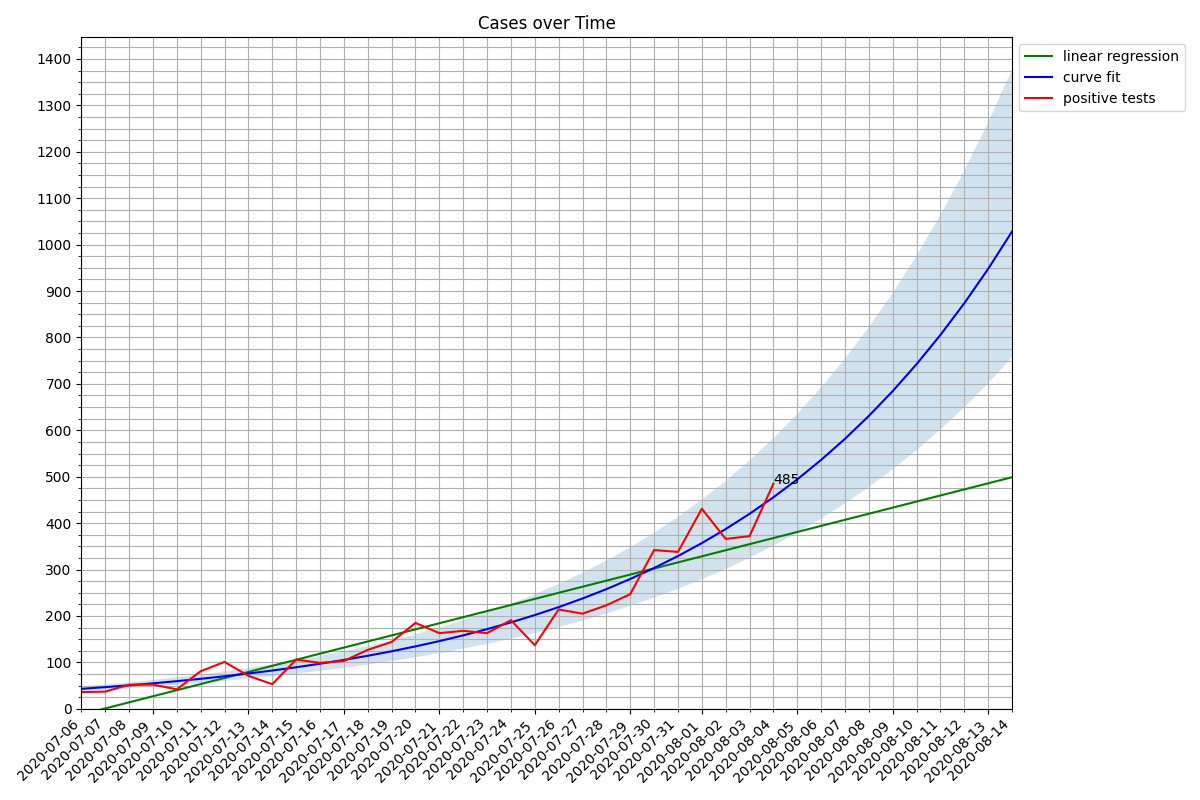
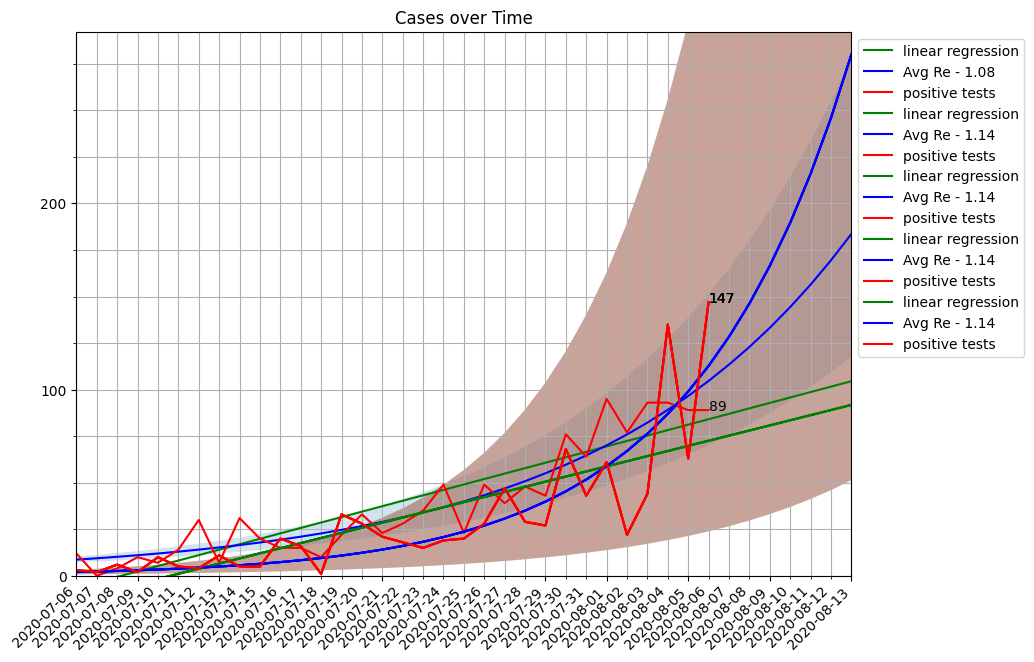
feat: add web-interface for database

diff --git a/frontend/templates/show_plots.html b/frontend/templates/show_plots.html
@@ -2,10 +2,54 @@
 
 {% block content %}
 
-<div class="base-div container-lg">
-
-    <img src="{{ url_for('static', filename='test.png') }}"  alt="plot"/>
-    
+<div class="container-lg">
+    <div class="row justify-content-center">
+        <form action="{{ url_for('index') }}" method="post" name="plot">
+            <div class="form-group row align-items-center">
+                <div class="col-auto">
+                    <h1>Municipality</h1>
+                    {{ form.hidden_tag() }}
+                    {{ form.municipality(size=30, class_='form-control') }}
+                </div>
+                <div class="col-auto">
+                    <h1>Province</h1>
+                    {{ form.province(size=30, class_='form-control') }}
+                </div>
+            </div>
+            <div class="form-group row align-items-center">
+                <div class="col-auto">
+                    <h1>Start Date</h1>
+                    {{ form.start_date(class_='form-control') }}
+                </div>
+                <div class="col-auto">
+                    <h1>End Date</h1>
+                    {{ form.end_date(class_='form-control') }}
+                </div>
+            </div>
+            <div class="form-group row align-items-center">
+                <div class="col-auto">
+                    Days to predict
+                    {{ form.no_days_to_predict(class_='form-control') }}
+                </div>
+                <div class="col-auto">
+                    Plot with curve
+                    {{ form.exp_curve(class_='form-control') }}
+                </div>
+                <div class="col-auto">
+                    Plot with lin. reg.
+                    {{ form.linear_regres(class_='form-control') }}
+                </div>
+            </div>
+            <div class="form-group row align-items-center">
+                <div class="col-auto mx-auto">
+                    {{ form.submit(class_='form-control btn btn-light') }}
+                </div>
+            </div>
+        </form>
+    </div>
+    <div class="row justify-content-center">
+        <img src="{{ url_for('static', filename=image_name) }}" alt="plot" class="rounded img-fluid"/>
+    </div>
 </div>
 
 {% endblock %}

diff --git a/frontend/templates/base.html b/frontend/templates/base.html
@@ -1,14 +1,13 @@
 <!doctype html>
 <html lang="en">
 <head>
-    <title>Poepquiz</title>
+    <title>Covid Analysis</title>
 
     <meta charset="utf-8">
     <meta name="viewport" content="width=device-width, initial-scale=1, shrink-to-fit=no">
 
     <link rel="stylesheet" href="https://stackpath.bootstrapcdn.com/bootstrap/4.3.1/css/bootstrap.min.css"
           integrity="sha384-ggOyR0iXCbMQv3Xipma34MD+dH/1fQ784/j6cY/iJTQUOhcWr7x9JvoRxT2MZw1T" crossorigin="anonymous">
-    <link rel="stylesheet" href="{{url_for('static', filename='styling.css')}}">
     <link href='https://fonts.googleapis.com/css?family=Roboto' rel='stylesheet'>
 
     <script src="https://ajax.googleapis.com/ajax/libs/jquery/3.5.1/jquery.min.js"></script>
@@ -20,6 +19,6 @@
             integrity="sha384-JjSmVgyd0p3pXB1rRibZUAYoIIy6OrQ6VrjIEaFf/nJGzIxFDsf4x0xIM+B07jRM"
             crossorigin="anonymous"></script>
 </head>
-<body class="center">
+<body class="p-3 mb-2 bg-dark text-white">
 {% block content %} {% endblock %}
 </body>

diff --git a/graph_plotter.py b/graph_plotter.py
@@ -1,39 +1,52 @@
+from datetime import date
 from scipy import stats, optimize
 import matplotlib.ticker as ticker
 import matplotlib.dates as mdates
 import matplotlib.pyplot as plt
 import numpy as np
+import matplotlib
+import random
 
 
-def plot_statistics(data_set, start_date, no_days_to_predict, linear_regres=True, exp_curve=True):
+# Prevent GUI from being triggered which causes crashes
+matplotlib.use('agg')
+
+
+def plot_statistics(data_set, start_date=date.min, end_date=date.max, no_days_to_predict=0, linear_regres=True, exp_curve=True):
     """
     Parameters
     ----------
     data_set: list of DutchStatistics
         pass data set containing statistics to plot
-    start_date: datetime.date
+    start_date: datetime.date, optional
         date to start plotting the data e.g datetime.date(2020, 7, 30)
     no_days_to_predict: int, optional
         number of dates to predict in the future
+    end_date: datetime.date, optional
+        defaults to infinity; date to end the plot, useful for date ranges
     linear_regres: boolean, optional
         defaults to true; add a linear regression line up to days to predict
     exp_curve: boolean, optional
         defaults to true; plots an exponential curve on the dataset
 
     :return:
-    Plots a graph with measured cases and optionaly adds statistical prediction
+    Plots a graph with measured cases and optionally adds statistical prediction
     """
 
     if no_days_to_predict > 0 and not exp_curve and not linear_regres:
         msg = 'Choose either exponential and/or linear prediction when using no_days_to_predict'
         raise RuntimeError(msg)
 
+    # None value should default to max
+    if not end_date:
+        end_date = date.max
+
     # Convert the data set for use in the plotter
     statistics = data_set
     dates = []
     cases = []
     for stat in statistics:
-        if stat[0] >= start_date:
+        if end_date >= stat[0] >= start_date:
             dates.append(stat[0])
             cases.append(stat[1])
 
@@ -75,8 +88,11 @@ def plot_statistics(data_set, start_date, no_days_to_predict, linear_regres=True
         prediction_optimum = exponent(np.array(predict_range), popt[0], popt[1])
         prediction_high = exponent(np.array(predict_range), popt[0] + perr[0], popt[1] + perr[1])
 
+        # Calculate reproduction number and add to plot
+        reproduction_no = round(exponent(1, popt[0], popt[1]) / exponent(0, popt[0], popt[1]), 2)
+
         # Plot the optimum as line and the rest as area
-        plt.plot(predicted_dates, prediction_optimum, color='blue', label='curve fit')
+        plt.plot(predicted_dates, prediction_optimum, color='blue', label='Avg Re - ' + str(reproduction_no))
         plt.gca().fill_between(predicted_dates, prediction_low, prediction_high, alpha=0.2)
 
     # Plot final results
@@ -106,12 +122,14 @@ def plot_statistics(data_set, start_date, no_days_to_predict, linear_regres=True
     # Other tweaks for the graph
     plt.xlim(left=start_date, right=predicted_dates[0])
     plt.ylim(bottom=0)
-    fig.set_size_inches(12, 8)
+    fig.set_size_inches(10, 8)
     plt.legend(bbox_to_anchor=(1, 1), loc='upper left')
-    plt.show()
-    # Finally show the plot
-    fig.savefig('frontend/static/test.png')
-    return fig
+
+    # Store the image
+    random_image_name = str(random.randint(1000000, 9999999)) + '.png'
+    fig.savefig('frontend/static/' + random_image_name, bbox_inches='tight')
+    plt.close()
+    return random_image_name
 
 
 def cases_per_municipality(data_set, start_date):

diff --git a/frontend/routes.py b/frontend/routes.py
@@ -1,8 +1,24 @@
-from frontend import app
+from frontend import app, forms
 from flask import render_template, redirect, url_for, session, request
+import graph_plotter
+import dutch_statistics
 
 
 @app.route('/', methods=['GET', 'POST'])
 @app.route('/plot', methods=['GET', 'POST'])
 def index():
-    return render_template('show_plots.html')
+    form = forms.SelectionForm()
+    if not session.get('image_name'):
+        session['image_name'] = 'test.png'
+    if form.validate_on_submit():
+        data_set = dutch_statistics.sum_dutch_total_infections(municipality=form.municipality.data,
+                                                               province=form.province.data)
+
+        session['image_name'] = graph_plotter.plot_statistics(
+                data_set=data_set,
+                start_date=form.start_date.data,
+                end_date=form.end_date.data,
+                no_days_to_predict=form.no_days_to_predict.data,
+                linear_regres=form.linear_regres.data,
+                exp_curve=form.linear_regres.data)
+    return render_template('show_plots.html', form=form, image_name=session.get('image_name'))

diff --git a/frontend/forms.py b/frontend/forms.py
@@ -1,0 +1,15 @@
+from flask_wtf import FlaskForm
+from wtforms import StringField, DateField, IntegerField, SubmitField, BooleanField, HiddenField
+from wtforms.validators import Optional
+import datetime
+
+
+class SelectionForm(FlaskForm):
+    municipality = StringField('Municipality', [Optional()], default=None)
+    province = StringField('Province', [Optional()], default=None)
+    start_date = DateField('StartDate', [Optional()], default=datetime.date(2020, 7, 6))
+    end_date = DateField('EndDate', [Optional()], default=None)
+    no_days_to_predict = IntegerField('DaysToPredict', [Optional()], default=7)
+    linear_regres = BooleanField('LinearRegres', [Optional()], default=True)
+    exp_curve = BooleanField('ExpCurve', [Optional()], default=True)
+    submit = SubmitField('Plot!', [Optional()])

diff --git a/main.py b/main.py
@@ -9,10 +9,10 @@ def refresh_dutch_statistics():
     dutch.calculate_dutch_daily_statistics()
 
 
-def quick_caller():
+def quick_caller(municipality=None, province=None):
     return graph_plotter.plot_statistics(
-            data_set=dutch.sum_dutch_total_infections(municipality=None, province=None),
+            data_set=dutch.sum_dutch_total_infections(municipality=municipality, province=province),
             start_date=datetime.date(2020, 7, 6),
-            no_days_to_predict=10,
+            no_days_to_predict=7,
             linear_regres=True,
             exp_curve=True)

diff --git a/config.py b/config.py
@@ -15,3 +15,9 @@ class Endpoints(object):
 class FlaskConfig(object):
     SECRET_KEY = os.environ.get('SECRET_KEY') or 'you-will-never-guess'
     FLASK_APP = 'main.py'
+
+    # Flask development settings
+    FLASK_ENV = 'development'
+    DEBUG = True
+
+
